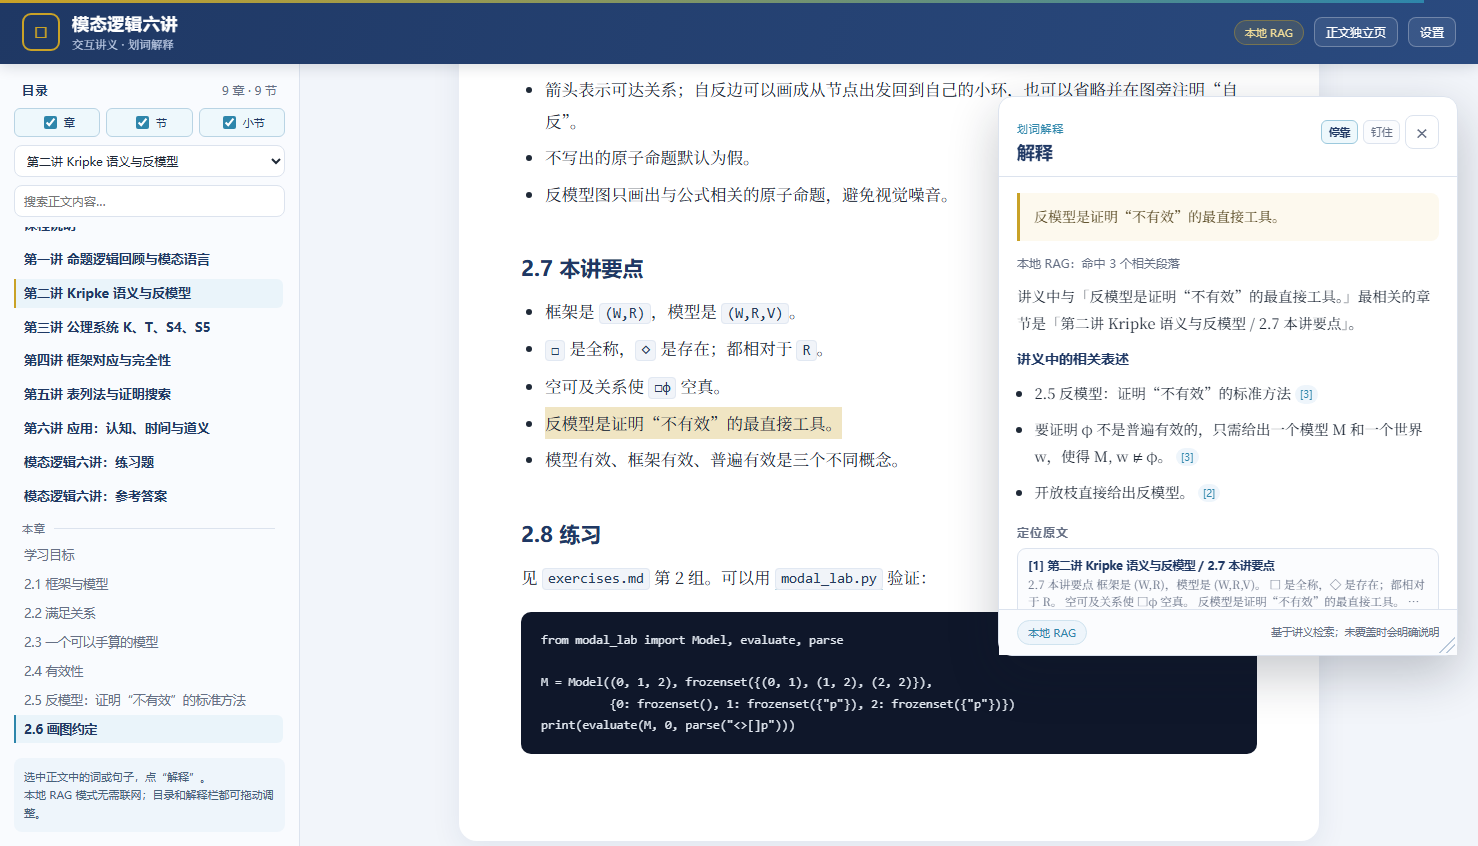
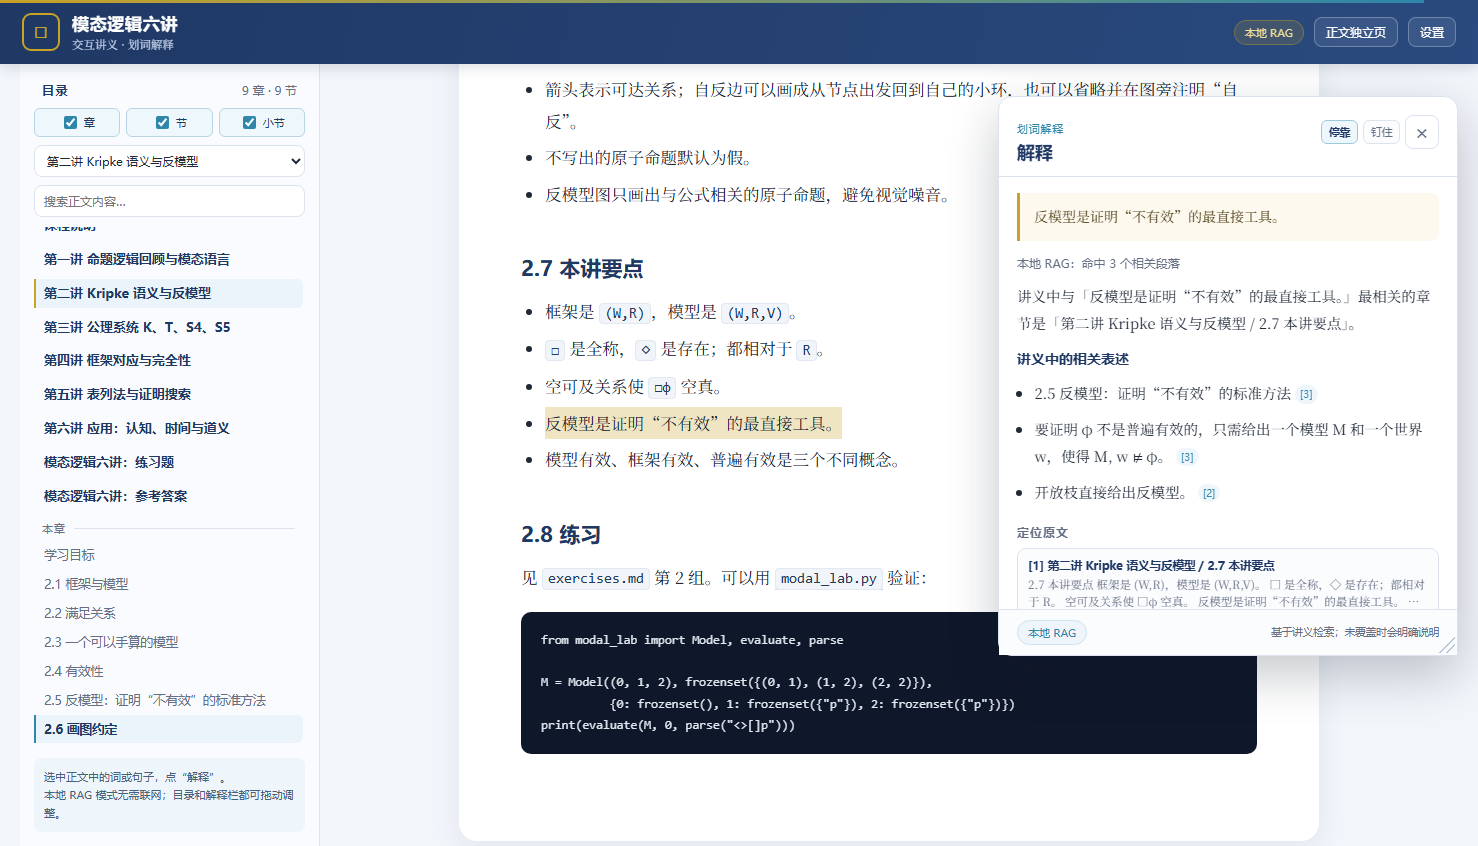
Reduce left gutter and refresh screenshots

Changed region(s): [[0.0, 0.1844, 0.2179, 0.9527], [0.0, 0.0922, 0.1867, 0.1537]]

diff --git a/reader/style.css b/reader/style.css
@@ -146,7 +146,8 @@ button, input { font: inherit; }
   position: relative;
   display: grid;
   grid-template-columns: var(--sidebar-w) minmax(0, 1fr);
-  max-width: 1480px;
+  width: calc(100% - 40px);
+  max-width: none;
   margin: 0 auto;
 }
 
@@ -1096,7 +1097,7 @@ button, input { font: inherit; }
 @media (max-width: 900px) {
   #menu-toggle { display: inline-grid; }
   .sidebar-resizer { display: none; }
-  .layout { display: block; }
+  .layout { display: block; width: 100%; margin: 0; }
   .sidebar {
     position: fixed;
     top: 64px;
